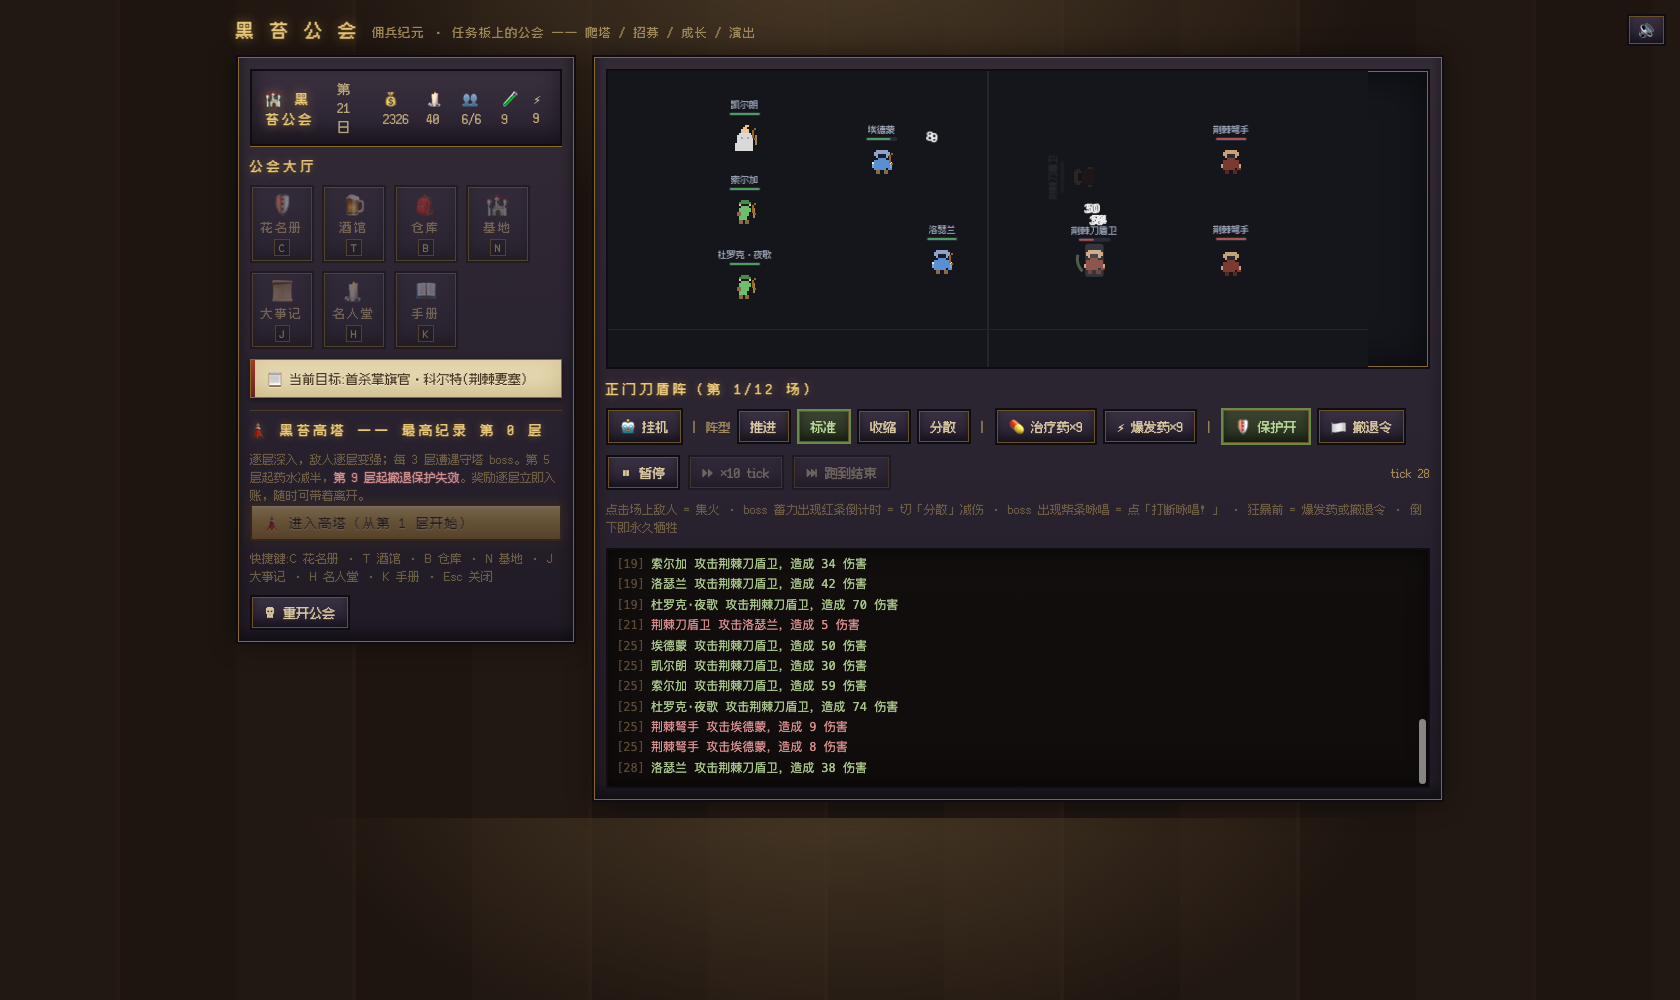
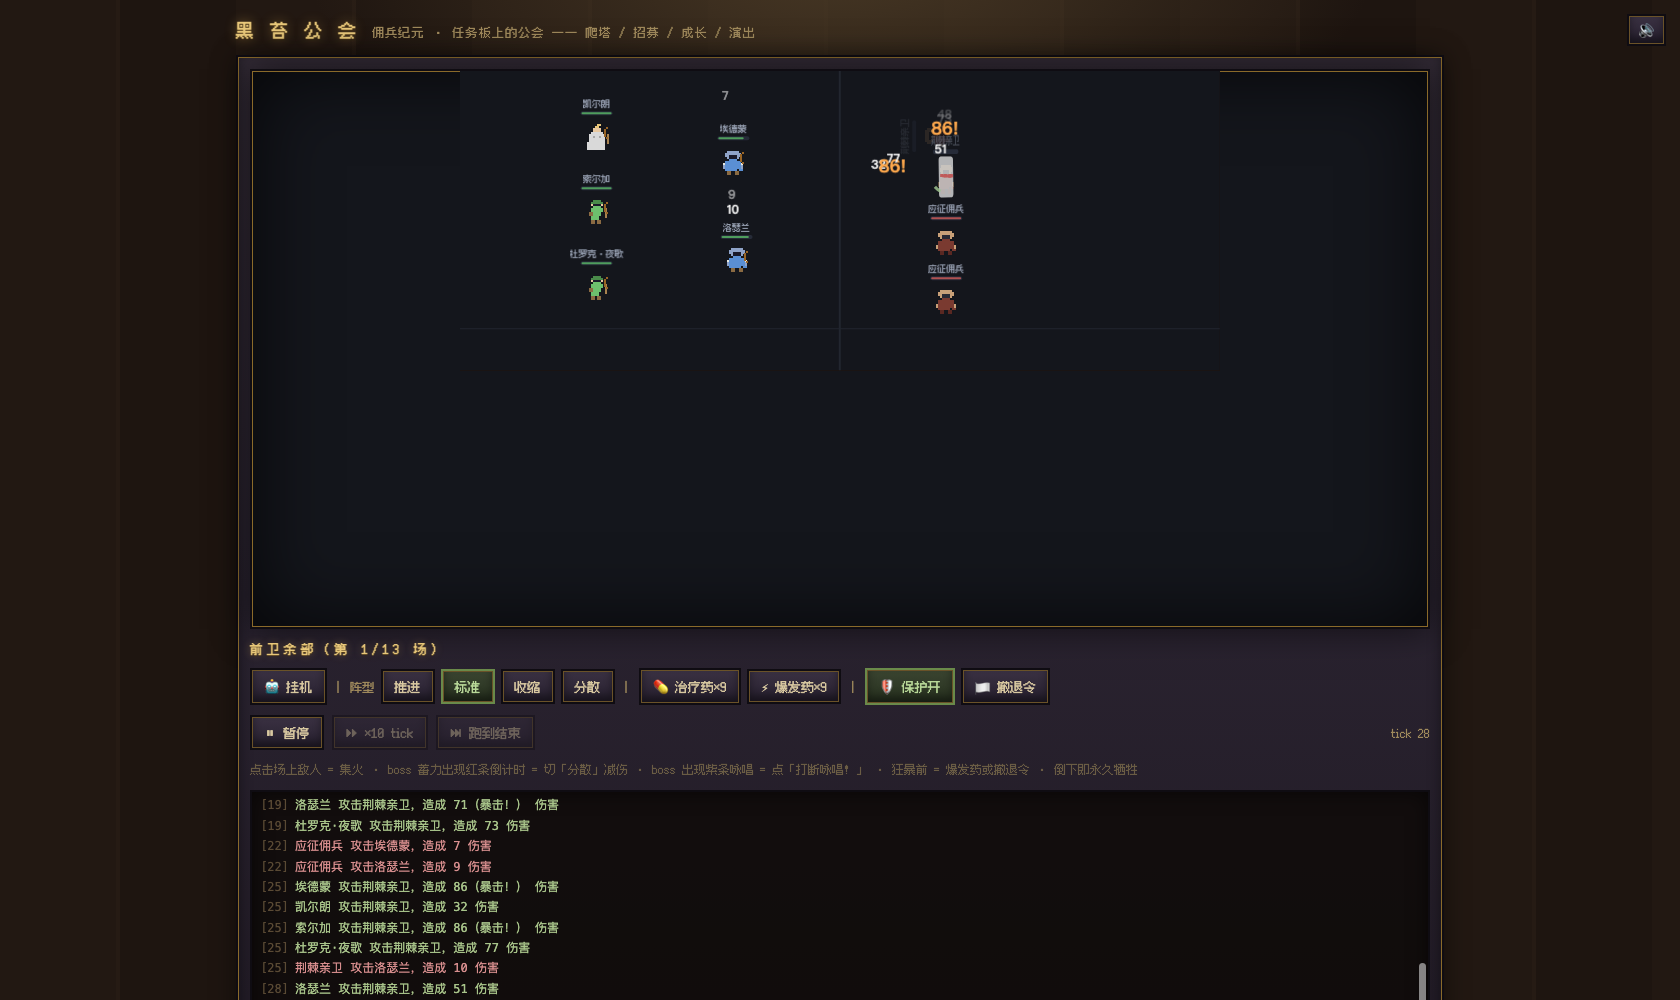
feat: 战斗场面独立放大+版图二E2E适配——battle-mode布局(开战时侧栏收起,舞台560px独占主区,canvas object-fit等比填充)+e2e-battle单位数断言放宽(路线生成器首场敌数可变);37门禁绿

diff --git a/src/index.css b/src/index.css
@@ -192,6 +192,15 @@ button.primary:hover:not(:disabled) {
 }
 .stage canvas { display: block; max-width: 100%; height: auto; }
 
+/* 战斗独立模式(反馈:战斗场面单独拿出来,大一点)——开战时侧栏收起,舞台独占主区并放大 */
+.layout.battle-mode { grid-template-columns: minmax(0, 1fr); }
+.layout.battle-mode .hub-panel { display: none; }
+.layout.battle-mode .stage {
+  height: 560px;
+  box-shadow: inset 0 0 0 1px var(--edge-gold), inset 0 0 80px rgba(0, 0, 0, 0.75), 0 0 34px rgba(0, 0, 0, 0.6);
+}
+.layout.battle-mode .stage canvas { width: 100%; height: 100%; object-fit: contain; margin: 0 auto; }
+
 .branch-btn {
   display: block;
   width: 100%;

diff --git a/src/App.tsx b/src/App.tsx
@@ -1160,7 +1160,7 @@ export default function App() {
         <h1>黑 苔 公 会</h1>
         <span className="slice-tag">佣兵纪元 · 任务板上的公会 —— 爬塔 / 招募 / 成长 / 演出</span>
       </div>
-      <div className="layout">
+      <div className={`layout${inBattle ? ' battle-mode' : ''}`}>
         <div className="panel hub-panel">
           <div className="hub-topbar">
             <span className="hub-title">🏰 黑苔公会</span>
